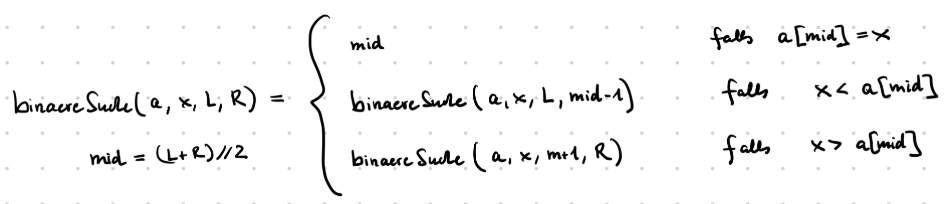
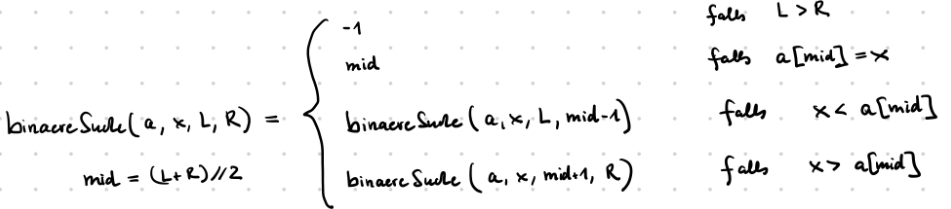
folien

diff --git a/README.md b/README.md
@@ -46,7 +46,7 @@ Klausur am 29.11.2024
 [Aufgaben](./Komplexitaet/Aufgaben/aufgaben.pdf) -
 [Lösungen](./Komplexitaet/Aufgaben/aufgaben_loes.pdf)
 
-- [SelectionSort, BubbleSort, MergeSort, QuickSort](./Sort/Folien/Sort.pdf) -
+- [SelectionSort, BubbleSort, MergeSort, QuickSort](./Sort/folien/Sort.pdf) -
 [HeapSort](./HeapSort/Folien/HeapSort.pdf) -
 [Code](https://github.com/ktheu/InfoKurs/blob/gh-pages/Sort/sort.ipynb) -
 [Aufgaben](./Sort/Aufgaben/aufgaben.pdf) -
